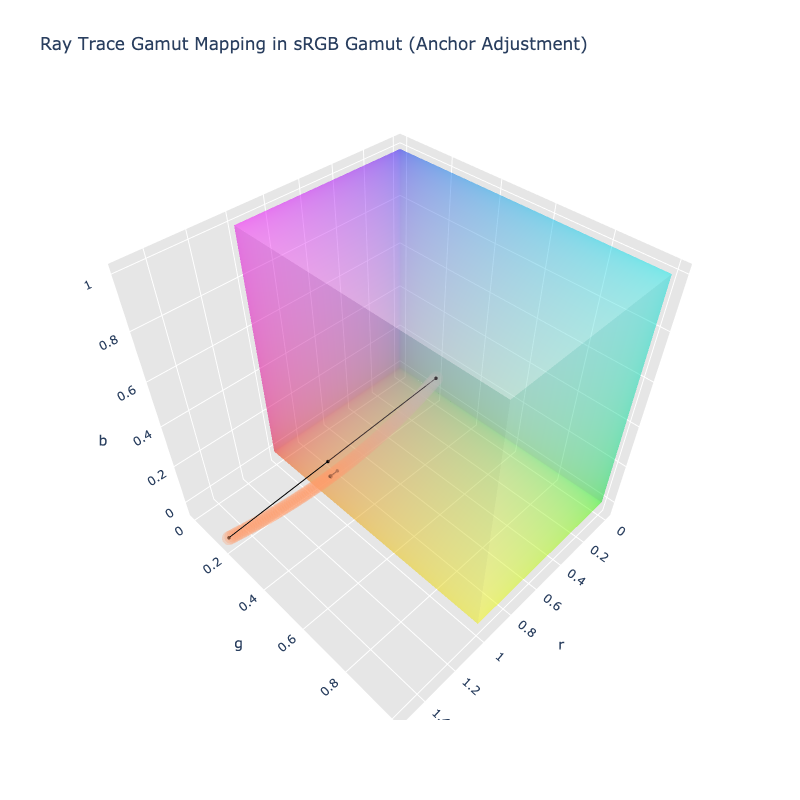
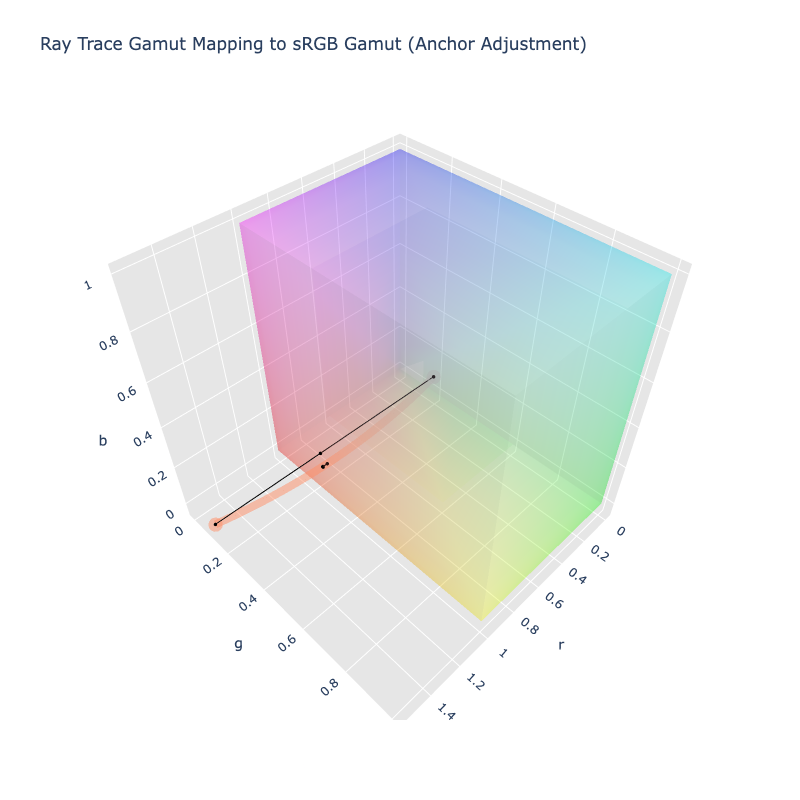
Tool updates
- Clean out dead code
- Update some stylistic things

diff --git a/docs/src/markdown/examples/3d_models.html b/docs/src/markdown/examples/3d_models.html
@@ -875,7 +875,8 @@ def plot_interpolation(
     gmap,
     simulate_alpha,
     interp_gmap,
-    filters=()
+    filters=(),
+    opacity=1
 ):
     """Plot interpolations."""
 
@@ -891,10 +892,7 @@ def plot_interpolation(
     options = interp_method.copy()
     options['steps'] = len(inputs)
 
-    markers = Color.steps(
-        interp_colors.split(';'),
-        **options
-    )
+    markers = [Color(i) for i in interp_colors.split(';')]
 
     target = Color.CS_MAP[space]
     flags = {
@@ -936,10 +934,12 @@ def plot_interpolation(
             trace = go.Scatter3d(
                 x=x, y=y, z=z,
                 mode = 'lines',
-                line={'color': cmap, 'width': 8},
+                line={'color': cmap, 'width': 16},
                 showlegend=False
                 )
 
+        if opacity < 1:
+            trace.update(opacity=opacity)
         fig.add_trace(trace)
 
 

diff --git a/tools/plot_raytrace.py b/tools/plot_raytrace.py
@@ -15,78 +15,6 @@ from coloraide import algebra as alg  # noqa: E402
 from coloraide.channels import ANGLE_DEG  # noqa: E402
 
 
-def plot_interpolation(
-    fig,
-    space,
-    interp_colors,
-    interp_space,
-    interp_method,
-    hue,
-    carryfoward,
-    powerless,
-    extrapolate,
-    steps,
-    gmap
-):
-    """Plot interpolations, but force Lab to operate like LCh."""
-
-    if not interp_colors:
-        return
-
-    colors = Color.steps(
-        interp_colors.split(';'),
-        space=interp_space,
-        steps=steps,
-        hue=hue,
-        carryfoward=carryfoward,
-        powerless=powerless,
-        extrapolate=extrapolate,
-        method=interp_method
-    )
-
-    target = Color.CS_MAP[space]
-    flags = {
-        'is_cyl': target.is_polar(),
-        'is_labish': isinstance(target, plt3d.Labish),
-        'is_lchish': isinstance(target, plt3d.LChish),
-        'is_hslish': isinstance(target, plt3d.HSLish),
-        'is_hwbish': isinstance(target, plt3d.HWBish),
-        'is_hsvish': isinstance(target, plt3d.HSVish)
-    }
-
-    x = []
-    y = []
-    z = []
-    cmap = []
-    for c in colors:
-        c.convert(space, in_place=True)
-        plt3d.store_coords(c, x, y, z, flags)
-
-        c.convert('srgb', in_place=True)
-        c.fit(**gmap)
-        cmap.append(c.to_string(hex=True))
-
-    trace = go.Scatter3d(
-        x=x, y=y, z=z,
-        mode='lines',
-        line={'color': cmap, 'width': 16},
-        showlegend=False
-    )
-
-    trace.update(opacity=0.5)
-    fig.add_trace(trace)
-
-    trace = go.Scatter3d(
-        x=[x[0], x[-1]], y=[y[0], y[-1]], z=[z[0], z[-1]],
-        mode='markers',
-        marker={'color': [cmap[0], cmap[-1]]},
-        showlegend=False
-    )
-
-    trace.update(opacity=1)
-    fig.add_trace(trace)
-
-
 def raytrace(args):
     """Test ray tracing directly."""
 
@@ -300,7 +228,7 @@ def simulate_raytrace_gamut_mapping(args):
                 indexes[:] = indexes[1], indexes[2], indexes[0]
                 points[e] = [temp[i] for i in indexes]
 
-    x, y, z = zip(*points)
+    x, y, z = zip(*points) if points else ([], [], [])
     data = []
     i = 0
     while i < len(x):
@@ -318,7 +246,7 @@ def simulate_raytrace_gamut_mapping(args):
     # Plot the color space
     fig = plt3d.plot_gamut_in_space(
         space if mode == 'rgb' else pspace,
-        {args.gamut_rgb: {'opacity': 0.2, 'resolution': 100}},
+        {args.gamut_rgb: {'opacity': 0.2, 'resolution': 10 if mode == 'rgb' else 100}},
         title=args.title,
         gmap=gmap,
         size=(args.width, args.height)
@@ -327,18 +255,16 @@ def simulate_raytrace_gamut_mapping(args):
     fig.add_traces(data)
 
     if args.gamut_interp:
-        plot_interpolation(
+        plt3d.plot_interpolation(
             fig,
             space if mode == 'rgb' else pspace,
             first.to_string(fit=False) + ';' + achroma.to_string(fit=False),
-            pspace,
-            'linear',
-            'shorter',
+            {"method": "linear", "hue": "shorter", "steps": 100},
+            gmap,
             False,
             False,
-            False,
-            100,
-            gmap
+            (),
+            opacity=0.5
         )
 
     return fig

diff --git a/tools/gamut_3d_plotly.py b/tools/gamut_3d_plotly.py
@@ -664,7 +664,8 @@ def plot_interpolation(
     gmap,
     simulate_alpha,
     interp_gmap,
-    filters=()
+    filters=(),
+    opacity=1
 ):
     """Plot interpolations."""
 
@@ -680,10 +681,7 @@ def plot_interpolation(
     options = interp_method.copy()
     options['steps'] = len(inputs)
 
-    markers = Color.steps(
-        interp_colors.split(';'),
-        **options
-    )
+    markers = [Color(i) for i in interp_colors.split(';')]
 
     target = Color.CS_MAP[space]
     flags = {
@@ -725,10 +723,12 @@ def plot_interpolation(
             trace = go.Scatter3d(
                 x=x, y=y, z=z,
                 mode = 'lines',
-                line={'color': cmap, 'width': 8},
+                line={'color': cmap, 'width': 16},
                 showlegend=False
                 )
 
+        if opacity < 1:
+            trace.update(opacity=opacity)
         fig.add_trace(trace)
 
 
